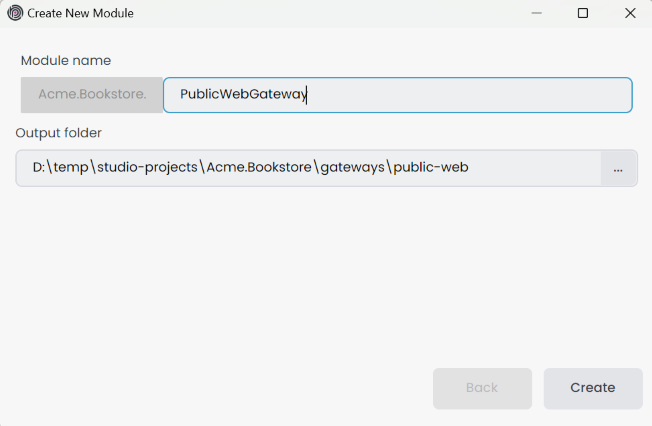
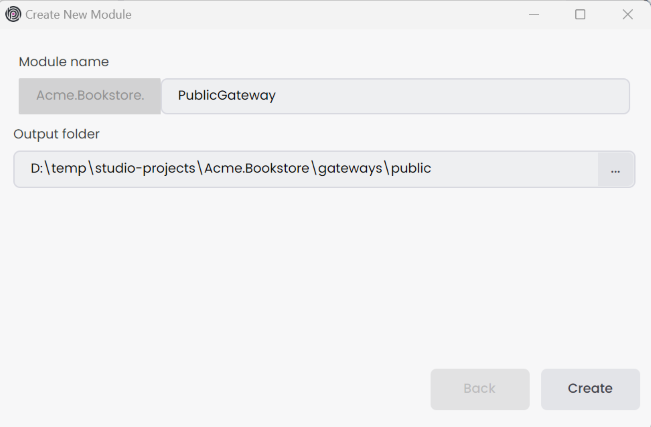
Microservice: adding-new-api-gateways gateway sample name changed

diff --git a/docs/en/solution-templates/microservice/adding-new-api-gateways.md b/docs/en/solution-templates/microservice/adding-new-api-gateways.md
@@ -12,7 +12,7 @@ In ABP Studio [Solution Explorer](../../studio/solution-explorer.md#adding-a-new
 
 ![new-gateway-application](images/new-gateway-application.png)
 
-It opens the `Create New Module` dialog. Enter the name of the new application, specify the output directory if needed, and click the `Create` button. There is a naming convention: the *Module name* should include the solution name as a prefix, and the use of the dot (.) character in the *Module name* is not allowed.
+It opens the `Create New Module` dialog. Enter the name of the new gateway application, specify the output directory if needed, and click the `Create` button. There is a naming convention: the *Module name* should include the solution name as a prefix, and the use of the dot (.) character in the *Module name* is not allowed.
 
 ![create-new-gateway-app](images/create-new-gateway-app.png)
 
@@ -89,8 +89,8 @@ Add the created gateway URL to the *redirectUris* parameter in the `CreateSwagge
 private async Task CreateSwaggerClientAsync(string clientId, string[] scopes)
 {
     var webGatewaySwaggerRootUrl = _configuration["OpenIddict:Applications:WebGateway:RootUrl"]!.TrimEnd('/'); 
-    //PublicWebGateway uri
-    var publicWebGatewaySwaggerRootUrl = _configuration["OpenIddict:Applications:PublicWebGateway:RootUrl"]!.TrimEnd('/');
+    //PublicGateway Url
+    var publicGatewaySwaggerRootUrl = _configuration["OpenIddict:Applications:PublicGateway:RootUrl"]!.TrimEnd('/');
     ...
 
     await CreateOrUpdateApplicationAsync(
@@ -106,7 +106,7 @@ private async Task CreateSwaggerClientAsync(string clientId, string[] scopes)
         scopes: commonScopes.Union(scopes).ToList(),
         redirectUris: new List<string> {
             $"{webGatewaySwaggerRootUrl}/swagger/oauth2-redirect.html",
-            $"{publicWebGatewaySwaggerRootUrl}/swagger/oauth2-redirect.html", // PublicWebGateway redirect uri
+            $"{publicGatewaySwaggerRootUrl}/swagger/oauth2-redirect.html", // PublicGateway redirect uri
             ...
         },
         clientUri: webGatewaySwaggerRootUrl,
@@ -122,8 +122,8 @@ Add the new gateway URL to the `appsettings.json` file in the `Identity` service
   "OpenIddict": {
     "Applications": {
       ...
-      "PublicWebGateway": {
-        "RootUrl": "http://localhost:44355"
+      "PublicGateway": {
+        "RootUrl": "http://localhost:44382"
       }
     }
   }
@@ -137,15 +137,15 @@ We should configure the AuthServer for **CORS** and **RedirectAllowedUrls**.
 ```json
 "App": {
   "SelfUrl": "http://localhost:***",
-  "CorsOrigins": "...... ,http://localhost:44355",
+  "CorsOrigins": "...... ,http://localhost:44382",
   "EnablePII": false,
-  "RedirectAllowedUrls": "...... ,http://localhost:44355"
+  "RedirectAllowedUrls": "...... ,http://localhost:44382"
 }
 ```
 
 ### Add the New Gateway to the Solution Runner
 
-We should add the new gateway to the solution runner [profile](../../studio/running-applications.md#profile) for running applications in the ABP Studio. You can follow the steps explained in the [Solution Runner](../../studio/running-applications.md#c-application) document to add the new gateway to the solution runner profile. Afterwards, you can start the new gatewaye by selecting it in the solution runner.
+We should add the new gateway to the solution runner [profile](../../studio/running-applications.md#profile) for running applications in the ABP Studio. You can follow the steps explained in the [Solution Runner](../../studio/running-applications.md#c-application) document to add the new gateway to the solution runner profile. Afterwards, you can start the new gateway by selecting it in the solution runner.
 
 ![public-gateway-solution-runner](images/public-gateway-solution-runner.png)
 
@@ -285,4 +285,31 @@ spec:
             name: "{{ .Release.Name }}-{{ .Chart.Name }}"
             port:
               number: 80
+```
+
+After creating the Helm chart, you can *Refresh Sub Charts* in the ABP Studio.
+
+![kubernetes-refresh-sub-charts](images/kubernetes-refresh-sub-charts.png)
+
+Then, update *Metadata* information right-click the *gateway* [sub-chart](../../studio/kubernetes.md#subchart), select *Properties* it open *Chart Properties* window. You can edit in the *Metadata* tab. 
+
+![gateway-chart-properties](images/gateway-chart-properties.png)
+
+Add the service name Regex pattern *Kubernetes Services* in the *Chart Properties* -> *Kubernetes Services* tab.
+
+![gateway-chart-properties-kubernetes-services](images/gateway-chart-properties-kubernetes-services.png)
+
+Last but not least, we need to configure the helm chart environments for identity microservice and auth-server application.
+
+```yaml
+# identity.yaml 
+# Add this line to the "env:" section
+# OpenIddict:Applications:PublicWebGateway:RootUrl
+- name: "OpenIddict__Applications__PublicWebGateway__RootUrl"
+  value: "{{ include "bookstore.hosts.publicwebgateway" . }}"
+
+# authserver.yaml
+# Concat the following lines for "App__CorsOrigins" section
+- name: "App__CorsOrigins"
+  value: "...,http://{{ .Release.Name }}-administration,{{ include "bookstore.hosts.publicwebgateway" . }}"
 ```
